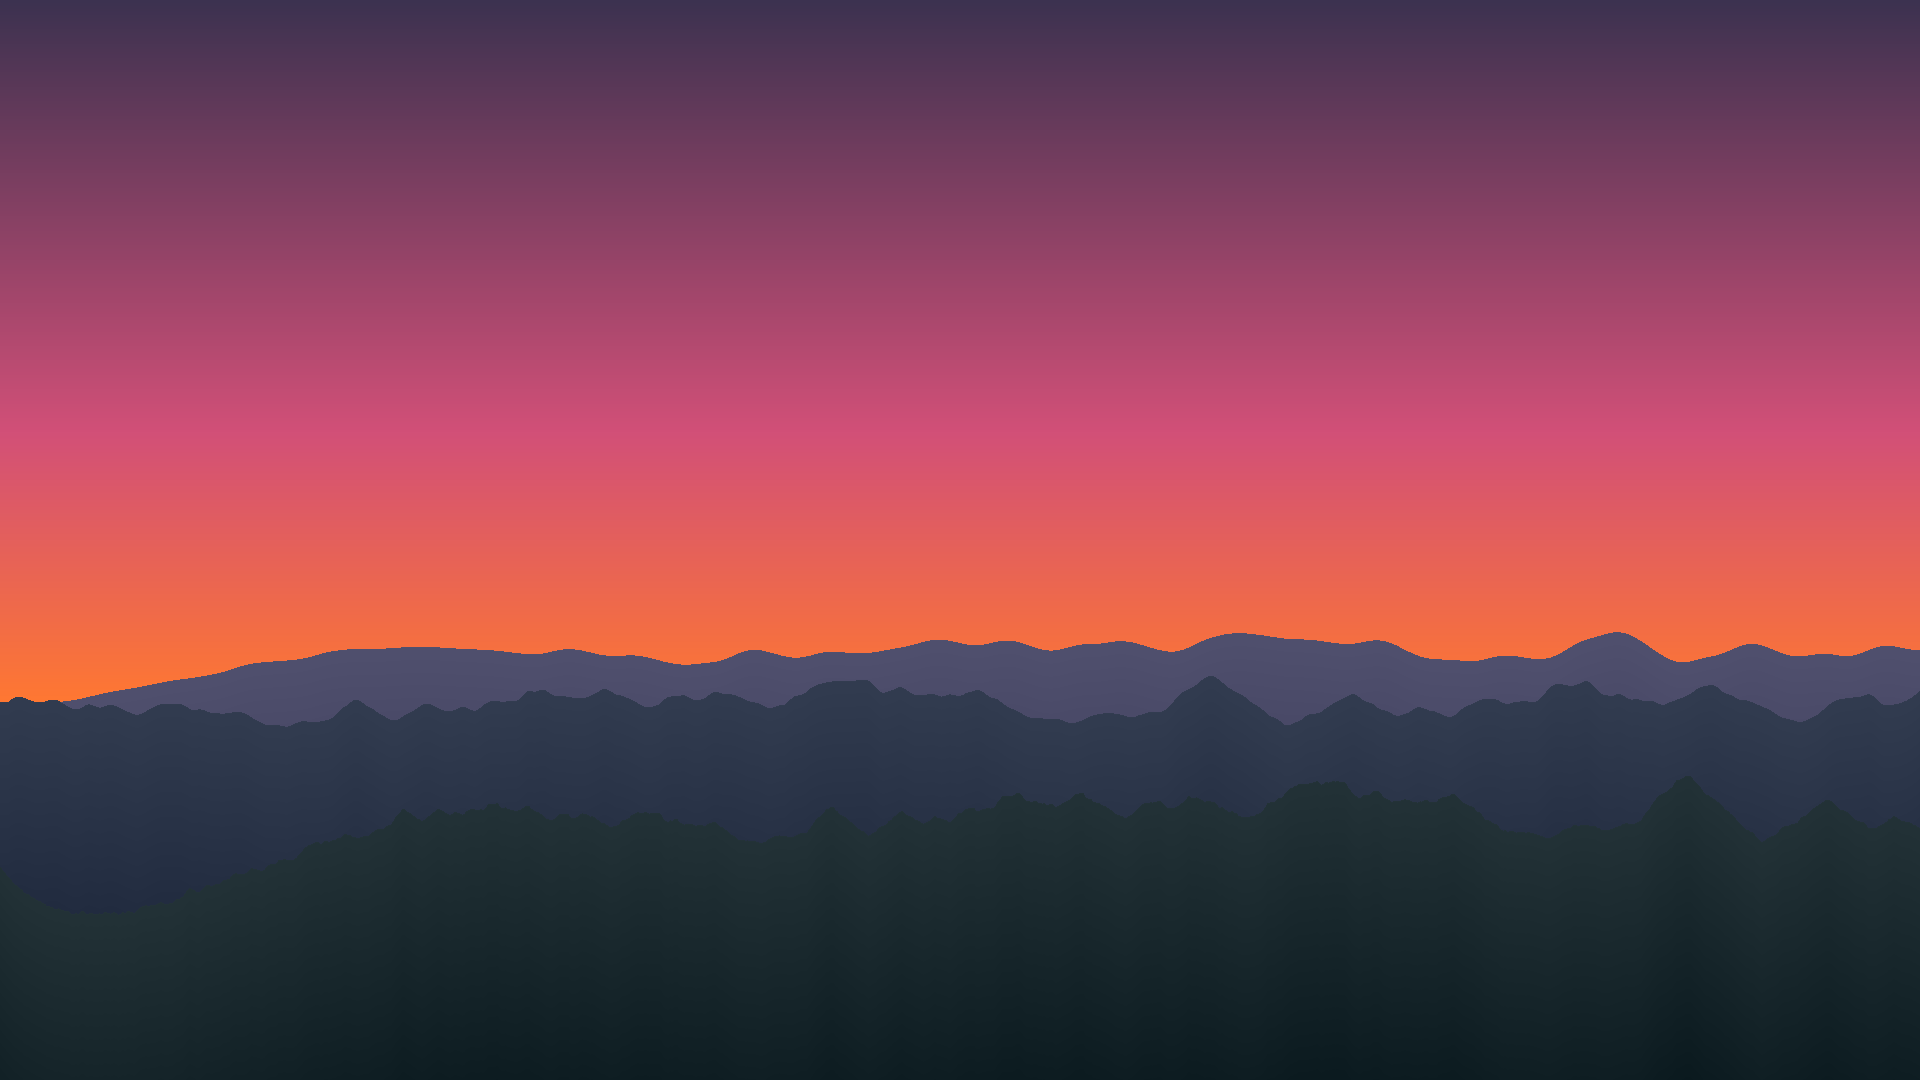
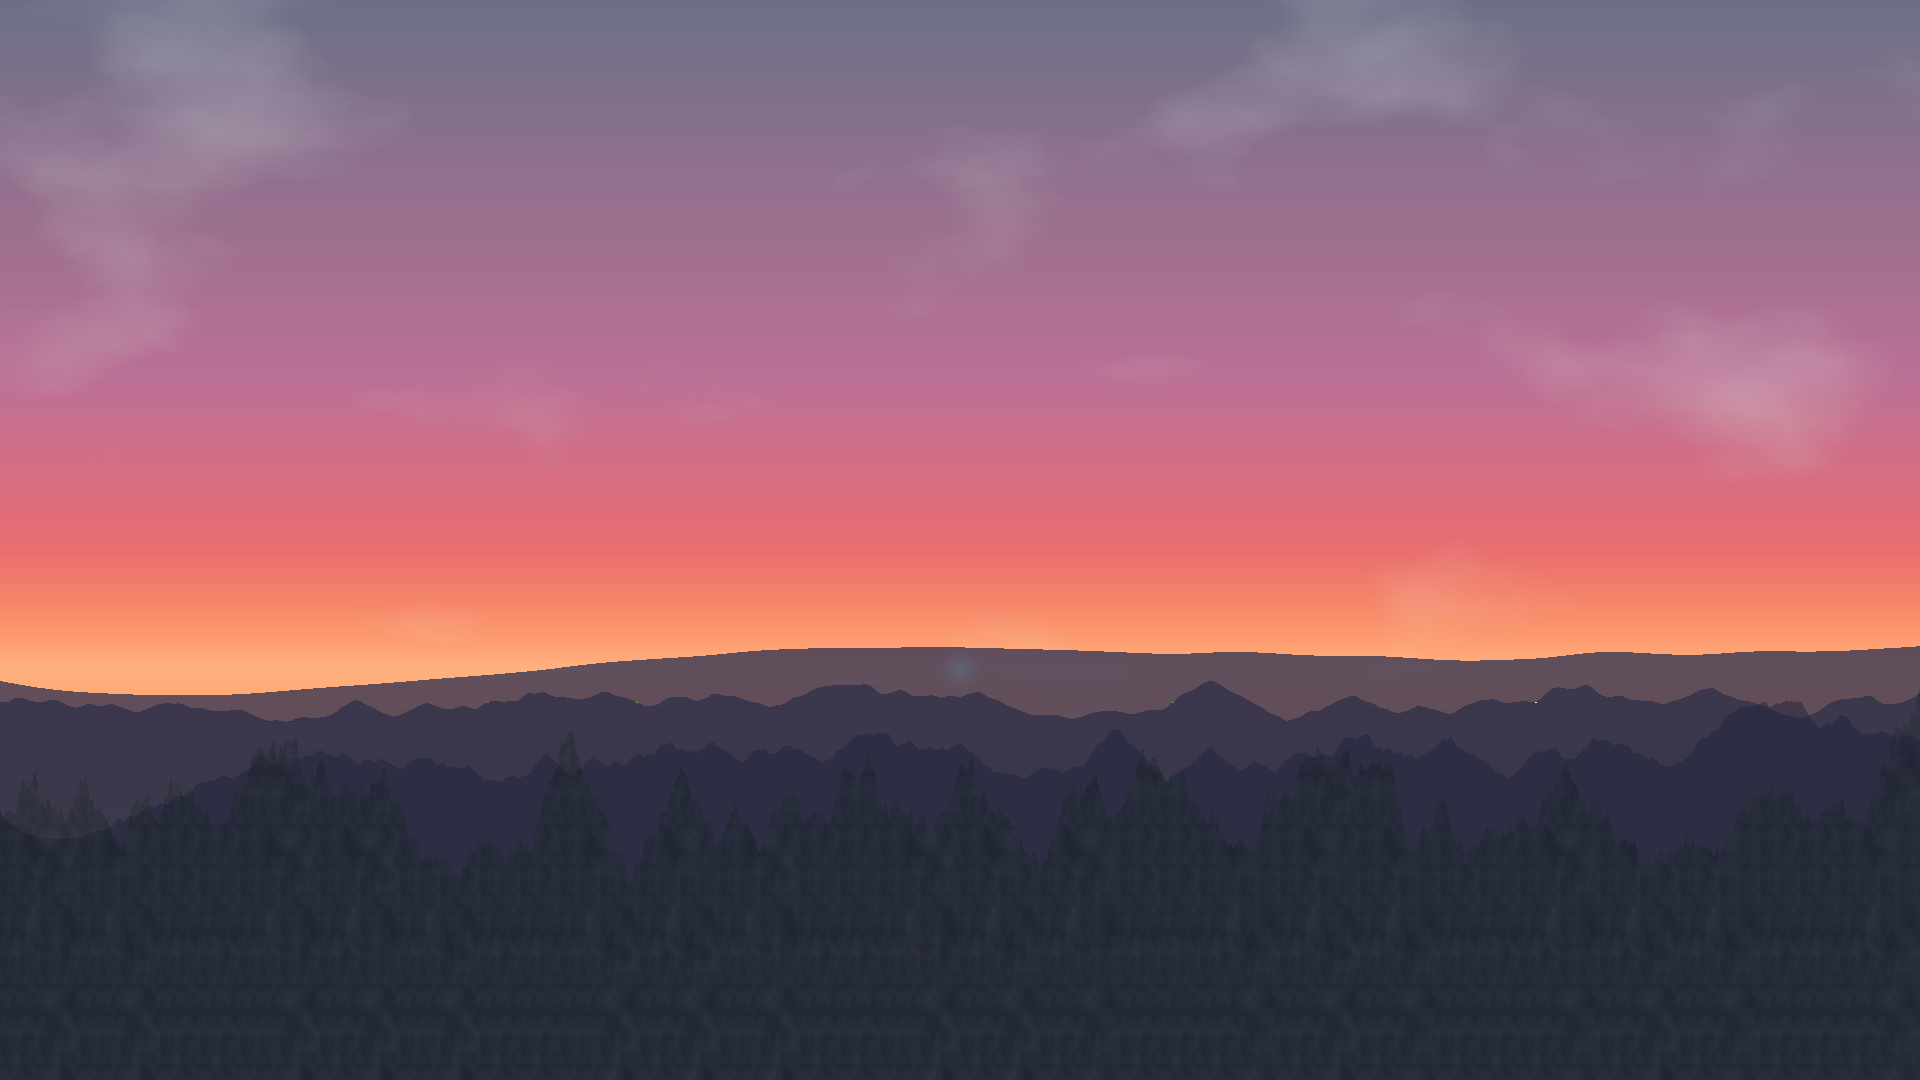
feat: Enhance procedural landscape realism
This commit significantly improves the visual fidelity of the generated landscape image to more closely match the original reference photograph.

Key enhancements include:
- Refined color palettes for the sky and mountains.
- Addition of a glowing sun, procedural clouds, and detailed foreground texture.
- Scattering of small structures in the valleys to add a sense of scale.
- Improved atmospheric perspective and more realistic mountain silhouettes.

diff --git a/generate_image.py b/generate_image.py
@@ -10,70 +10,209 @@ def create_sky_gradient(width, height):
     """Creates a canvas and paints a multi-color vertical sky gradient."""
     canvas = np.zeros((height, width, 3), dtype=np.uint8)
 
-    # Define the key colors of our gradient from top to bottom
+    # Refined colors based on the photograph
     colors = [
-        (np.array([60, 50, 80]), 0.0),      # Dark Blue/Purple at the top
-        (np.array([210, 80, 120]), 0.4),    # Pink in the middle
-        (np.array([255, 120, 50]), 0.65),   # Bright Orange at the horizon
-        (np.array([255, 180, 80]), 1.0)     # Lighter Orange lowest
+        (np.array([108, 112, 134]), 0.0),    # Dusty Blue/Grey at the top
+        (np.array([188, 113, 150]), 0.35),   # Muted Pink/Violet
+        (np.array([232, 108, 115]), 0.5),    # Rosy Red
+        (np.array([255, 128, 78]), 0.6),     # Fiery Orange
+        (np.array([255, 189, 95]), 0.75),    # Bright Yellow/Orange
     ]
 
     for y in range(height):
-        # Determine overall progress down the canvas
         t = y / height
-
-        # Find which two colors to interpolate between
         for i in range(len(colors) - 1):
             c1, p1 = colors[i]
             c2, p2 = colors[i+1]
             if p1 <= t < p2:
-                # Create a local interpolation factor between the two current color points
                 local_t = (t - p1) / (p2 - p1)
                 final_color = c1 + (c2 - c1) * local_t
                 canvas[y, :] = final_color.astype(np.uint8)
                 break
+        else: # Handle the last segment
+             canvas[y, :] = colors[-1][0].astype(np.uint8)
 
     return canvas
 
-def add_mountain_layer(canvas, base_height, amplitude, color, octaves, persistence, lacunarity, seed):
+def add_mountain_layer(canvas, base_height, amplitude, color, octaves, persistence, lacunarity, seed, scale, is_foreground=False):
     """Generates and draws a single mountain layer onto the canvas."""
     width, height = canvas.shape[1], canvas.shape[0]
 
-    # Draw the mountain on the canvas column by column
     for x in range(width):
-        # Generate a noise value for the mountain's shape at this x position.
-        # We use a seed so each mountain layer can be unique.
         n = noise.pnoise1(
-            (x + seed) * 0.002, # Scale the input to get desired "waviness"
+            (x + seed) * scale, # Use a scale parameter for more control
             octaves=octaves,
             persistence=persistence,
             lacunarity=lacunarity
         )
 
-        # Map the noise value (-1 to 1) to a pixel height
         m_height = int(base_height + n * amplitude)
 
-        # Fill all pixels below this height with the mountain color
-        # Add simple shading: color gets slightly darker further down
         for y in range(m_height, height):
-            shading = (y - m_height) * 0.08
-            shaded_color = np.clip(np.array(color) - shading, 0, 255)
-            canvas[y, x] = shaded_color.astype(np.uint8)
+            # Apply atmospheric perspective by blending with sky color
+            sky_color = canvas[y, x]
+            # Closer mountains are less affected by atmospheric haze
+            haze_factor = 1 - (amplitude / 300) # Simple factor based on amplitude
+
+            base_mountain_color = np.array(color)
+
+            # Blend the mountain color with the sky color based on haze
+            blended_color = base_mountain_color * haze_factor + sky_color * (1-haze_factor)
+
+            # Add foreground texture if specified
+            if is_foreground:
+                # High-frequency noise for texture
+                tex_noise = noise.pnoise2(x * 0.05, y * 0.05, octaves=4, persistence=0.7, lacunarity=2.0, base=seed)
+                # Use noise to vary brightness
+                brightness_variation = tex_noise * 25
+                textured_color = blended_color + brightness_variation
+                blended_color = textured_color
+
+            canvas[y, x] = np.clip(blended_color, 0, 255).astype(np.uint8)
 
     return canvas
 
+
+def add_structures(canvas, num_structures, y_start_scan, brightness_threshold):
+    """Scatters small structures on the mountain surfaces."""
+    width, height = canvas.shape[1], canvas.shape[0]
+
+    colors = [np.array([255, 255, 220]), np.array([200, 80, 80]), np.array([80, 180, 80])]
+
+    for _ in range(num_structures):
+        x = np.random.randint(int(width * 0.1), int(width * 0.9))
+
+        for y in range(y_start_scan, height - 2):
+            pixel_color = canvas[y, x]
+            brightness = np.mean(pixel_color)
+
+            if brightness < brightness_threshold:
+                pixel_above_color = canvas[y-1, x]
+                brightness_above = np.mean(pixel_above_color)
+                if brightness_above > brightness + 10: # Ensure it's a surface, not just a dark area
+                    color = colors[np.random.randint(0, len(colors))]
+                    canvas[y, x] = color
+                    if x < width -1:
+                        canvas[y, x+1] = color
+                break
+
+    return canvas
+
+
+def add_clouds(canvas, scale, octaves, persistence, lacunarity, seed, threshold, cloud_color):
+    """Generates and blends procedural clouds onto the canvas."""
+    width, height = canvas.shape[1], canvas.shape[0]
+
+    # Create a separate layer for clouds to avoid modifying the canvas while reading from it
+    cloud_layer = np.copy(canvas).astype(np.float32)
+
+    for y in range(int(height * 0.7)): # Only generate clouds in the upper 70% of the sky
+        for x in range(width):
+            # Generate 2D Perlin noise
+            nx = x / width
+            ny = y / height
+            noise_val = noise.pnoise2(
+                nx * scale + seed,
+                ny * scale + seed,
+                octaves=octaves,
+                persistence=persistence,
+                lacunarity=lacunarity
+            )
+
+            # Normalize noise_val to be in 0-1 range
+            noise_val = (noise_val + 1) / 2
+
+            # Apply threshold to create cloud shapes
+            if noise_val > threshold:
+                # Calculate cloud transparency based on how much it exceeds the threshold
+                cloud_alpha = (noise_val - threshold) / (1 - threshold)
+                cloud_alpha = min(cloud_alpha * 1.2, 1.0) # Make clouds a bit more solid
+
+                # The cloud color is influenced by the sun's glow
+                # A simple approach: brighter clouds near the horizon
+                glow_factor = (y / (height * 0.7))**2
+                final_cloud_color = np.array(cloud_color, dtype=np.float32) + (np.array([255, 220, 180], dtype=np.float32) - np.array(cloud_color, dtype=np.float32)) * glow_factor
+
+                # Blend the cloud color with the existing canvas color
+                existing_color = cloud_layer[y, x]
+                blended_color = existing_color + (final_cloud_color - existing_color) * cloud_alpha * 0.7 # 0.7 to make clouds semi-transparent
+
+                canvas[y, x] = np.clip(blended_color, 0, 255).astype(np.uint8)
+
+    return canvas
+
+
+def draw_sun(canvas, pos_x, pos_y, radius, color):
+    """Draws a soft, glowing sun on the canvas."""
+    width, height = canvas.shape[1], canvas.shape[0]
+    for y in range(max(0, pos_y - radius), min(height, pos_y + radius)):
+        for x in range(max(0, pos_x - radius), min(width, pos_x + radius)):
+            dist = np.sqrt((x - pos_x)**2 + (y - pos_y)**2)
+            if dist < radius:
+                # Create a falloff effect for a soft edge
+                falloff = 1 - (dist / radius)
+                falloff = falloff**2 # Square falloff for a brighter core
+
+                # Blend the sun color with the existing sky color
+                existing_color = canvas[y, x].astype(np.float32)
+                sun_color = np.array(color, dtype=np.float32)
+
+                blended_color = existing_color + (sun_color - existing_color) * falloff
+                canvas[y, x] = np.clip(blended_color, 0, 255).astype(np.uint8)
+    return canvas
+
+def add_horizontal_glow(canvas, y_center, height, color):
+    """Adds a horizontal glow effect to the canvas."""
+    canvas_height = canvas.shape[0]
+    for y in range(canvas_height):
+        dist_from_center = abs(y - y_center)
+        if dist_from_center < height:
+            # Calculate glow intensity with a smooth falloff
+            glow_intensity = (1 - (dist_from_center / height))**2
+
+            # Create a glow color array
+            glow_color = np.array(color, dtype=np.float32)
+
+            # Blend the glow with the existing canvas row
+            existing_row = canvas[y, :].astype(np.float32)
+            blended_row = existing_row + (glow_color - existing_row) * glow_intensity * 0.5 # 0.5 to make it less overpowering
+            canvas[y, :] = np.clip(blended_row, 0, 255).astype(np.uint8)
+
+    return canvas
+
+
 if __name__ == "__main__":
-    # 1. Start with our sky
     main_canvas = create_sky_gradient(WIDTH, HEIGHT)
 
-    # 2. Add a distant, faint mountain layer
-    main_canvas = add_mountain_layer(main_canvas, int(HEIGHT*0.6), 100, [80, 80, 110], 4, 0.5, 2.0, 100)
+    # Define sun position and properties
+    sun_y = int(HEIGHT * 0.62)
+    sun_x = int(WIDTH * 0.5)
 
-    # 3. Add a closer, darker mountain layer
-    main_canvas = add_mountain_layer(main_canvas, int(HEIGHT*0.65), 150, [50, 60, 80], 6, 0.5, 2.0, 500)
+    # Add the glow before the sun and mountains for correct layering
+    main_canvas = add_horizontal_glow(main_canvas, sun_y, 150, [255, 220, 180])
 
-    # 4. Add a foreground hill
-    main_canvas = add_mountain_layer(main_canvas, int(HEIGHT*0.75), 200, [35, 50, 55], 8, 0.5, 2.0, 25)
+    # Draw the sun
+    main_canvas = draw_sun(main_canvas, sun_x, sun_y, 30, [255, 255, 240])
+
+    # Add clouds before the mountains
+    main_canvas = add_clouds(main_canvas, scale=5.0, octaves=6, persistence=0.45, lacunarity=2.0, seed=300, threshold=0.55, cloud_color=[210, 210, 220])
+
+
+    # Layer 1: Farthest, most hazy mountains
+    main_canvas = add_mountain_layer(main_canvas, int(HEIGHT*0.60), 80, [40, 45, 80], 4, 0.4, 2.0, 100, 0.001)
+
+    # Layer 2: Mid-distance mountains
+    main_canvas = add_mountain_layer(main_canvas, int(HEIGHT*0.65), 120, [35, 40, 70], 6, 0.5, 2.0, 500, 0.002)
+
+    # Layer 3: Closer, more detailed mountains
+    main_canvas = add_mountain_layer(main_canvas, int(HEIGHT*0.70), 160, [30, 35, 60], 8, 0.5, 2.0, 25, 0.003)
+
+    # Layer 4: Foreground hill with more detail
+    main_canvas = add_mountain_layer(main_canvas, int(HEIGHT*0.75), 220, [20, 35, 30], 10, 0.6, 2.0, 800, 0.005, is_foreground=True)
+
+    # Add distant structures as a final touch
+    main_canvas = add_structures(main_canvas, num_structures=150, y_start_scan=int(HEIGHT*0.65), brightness_threshold=90)
+
 
     img = Image.fromarray(main_canvas, 'RGB')
     img.save('procedural_sunset.png')
